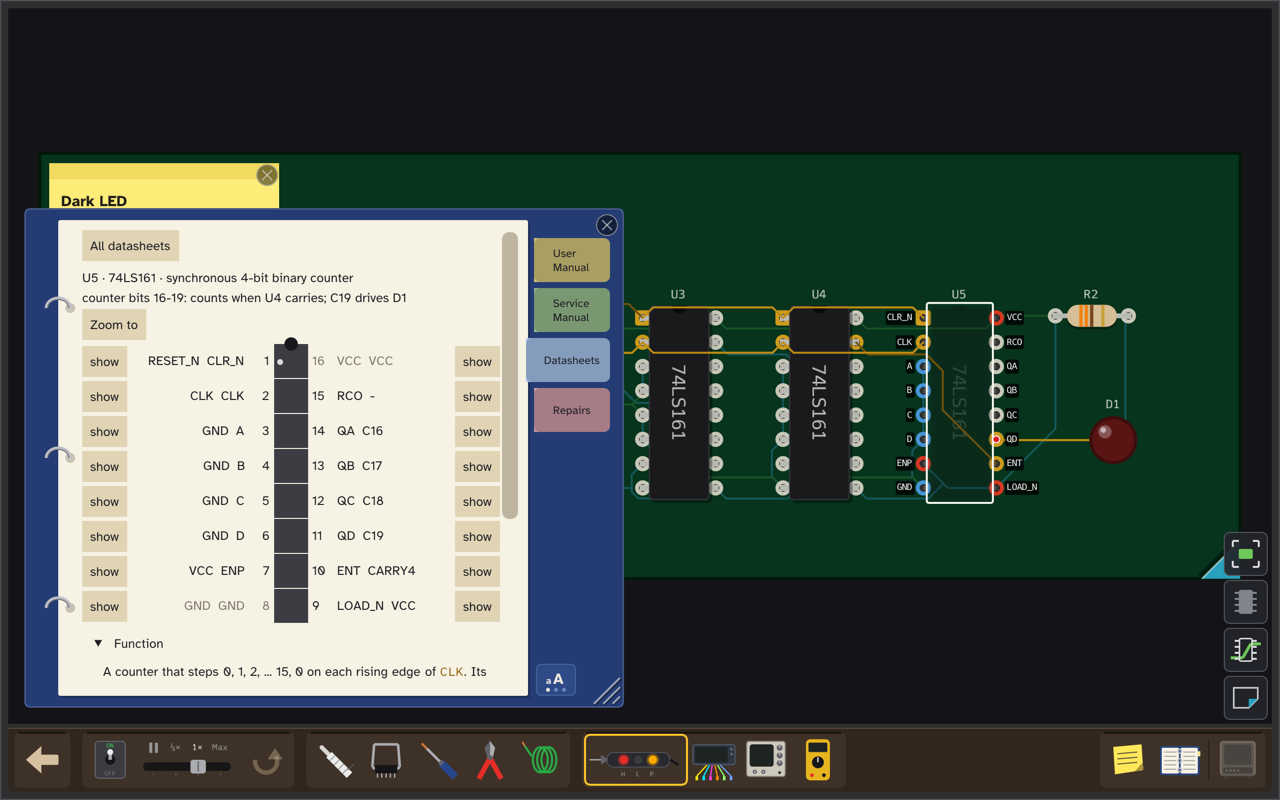
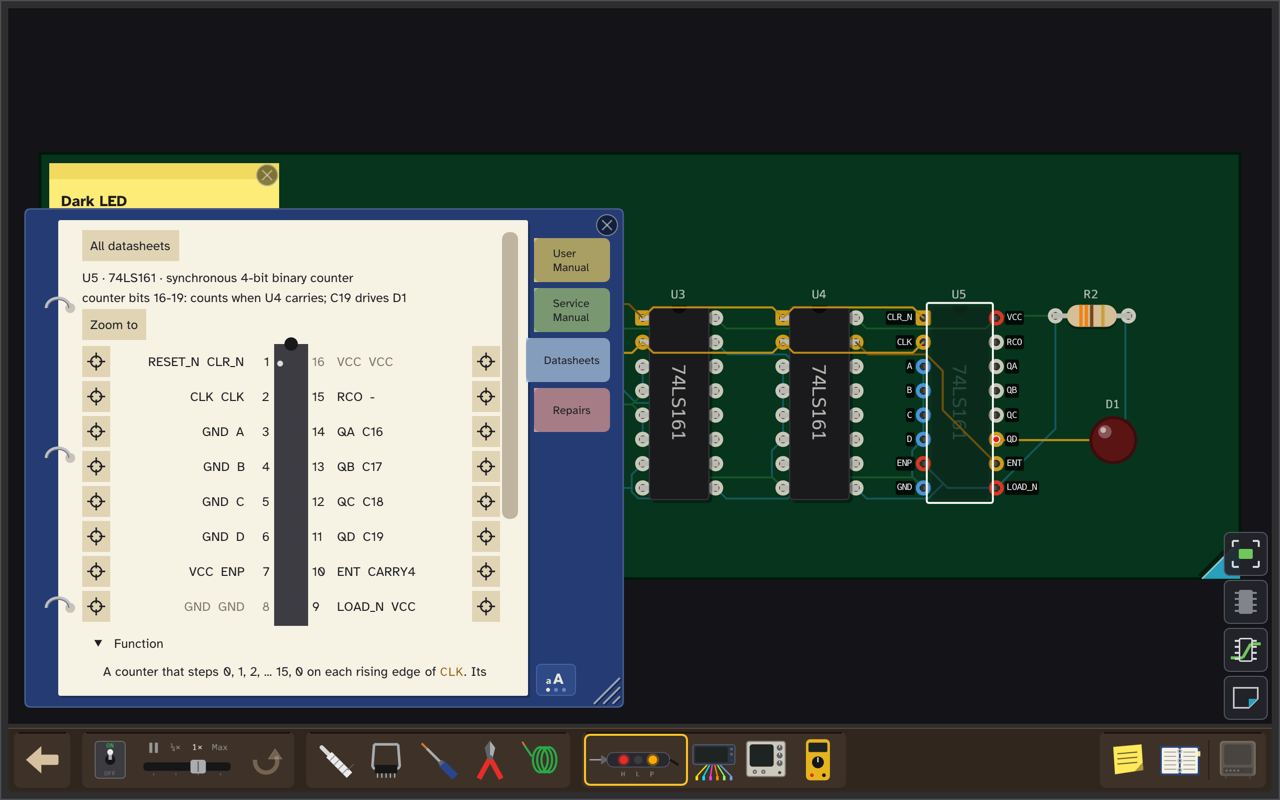
ui: pinouts and Contents at the reading size, a crosshair for "show"
The pinouts and a memory chip's Contents page no longer stay at 16 px:
they follow the aA key like the rest of the page.

- ControlHeight() (controls.hpp): kControl, or the style's frame in a
  larger font. A pin's row, its "show" key, the chip body's segment and
  Choice's buttons take it, so their text fits at 20 and 24 px.
- A pin's "show" key is a crosshair kControl wide (tooltip "Show on the
  Board") instead of the word: about 20 px more for the names each side.
- A row too long for its cell is clipped a gap short of its key (it was
  drawn over it); its tooltip shows it whole, and the player can widen
  the binder. At the binder's first size, Parts with a cut row: 28 of
  540 at 16 px (40 before), 114 at 20, 247 at 24.
- The Contents page's hex fields and Rows value sized from their text;
  the hex dump already goes 16, 8 or 4 bytes a row with the width.
- PushFixedPageFont is left to the binder's own labels (tabs, aA key).

Full release suite passed (1720); web build built; screenshots of every
pinout layout and Contents view at 16, 20 and 24 px viewed.

diff --git a/src/ui/chip_panel.cpp b/src/ui/chip_panel.cpp
@@ -12,7 +12,6 @@
 
 #include "parts/catalogue.hpp"
 #include "ui/controls.hpp"
-#include "ui/page_fonts.hpp"
 #include "ui/touch.hpp"
 #include "view/digit_shape.hpp"
 
@@ -76,20 +75,38 @@ void PinHits(bool clicked, const PinRow& row, std::size_t component, const Markd
     }
 }
 
+// A crosshair centred on `centre`, `radius` its ring's.
+void DrawCrosshair(ImDrawList& list, ImVec2 centre, float radius, ImU32 colour) {
+    list.AddCircle(centre, radius, colour, 0, 1.5f);
+    const float in = radius * 0.45f, out = radius * 1.45f;
+    for (const ImVec2 d : {ImVec2{1, 0}, ImVec2{-1, 0}, ImVec2{0, 1}, ImVec2{0, -1}}) {
+        list.AddLine({centre.x + d.x * in, centre.y + d.y * in},
+                     {centre.x + d.x * out, centre.y + d.y * out}, colour, 1.5f);
+    }
+}
+
 // A pin's "show" button (P8f): frames the pin on the Board whatever tool is in hand, as a Ctrl-
-// or Cmd-click on its row does. `width` 0: the label's.
-constexpr const char* kShow = "show";
-float ShowWidth() { return ImGui::CalcTextSize(kShow).x + 2 * ImGui::GetStyle().FramePadding.x; }
+// or Cmd-click on its row does. A crosshair (2026-11-27: the word "show" took the names' room at
+// the larger reading sizes), kControl wide, as high as a pin's row; `width` 0: kControl.
+float ShowWidth() { return kControl; }
 void ShowButton(const PinRow& row, std::size_t component, TargetHits& hits, float width = 0) {
+    const ImVec2 size{width > 0 ? width : ShowWidth(), ControlHeight()};
     if (!row.pad) {
-        ImGui::Dummy({width > 0 ? width : ShowWidth(), kControl});
+        ImGui::Dummy(size);
         return;
     }
     ImGui::PushID(row.number.c_str());
-    if (ImGui::Button(kShow, {width, 0})) {
+    if (ImGui::Button("##show", size)) {
         hits.clicked = BoardTarget{{component}, row.pad, std::nullopt};
         hits.frame = true;
     }
+    if (ImGui::IsItemHovered()) {
+        PageTooltip("Show on the Board");
+    }
+    const ImVec2 min = ImGui::GetItemRectMin(), max = ImGui::GetItemRectMax();
+    DrawCrosshair(*ImGui::GetWindowDrawList(), {(min.x + max.x) / 2, (min.y + max.y) / 2},
+                  std::min(max.x - min.x, max.y - min.y) * 0.22f,
+                  ImGui::GetColorU32(ImGuiCol_Text));
     ImGui::PopID();
 }
 
@@ -105,7 +122,7 @@ void PinCell(const PinRow& row, PinSide side, std::size_t component, const Markd
     // A row as high as a control (P8f): the large way to a pin. Level with the "show" button
     // before it on a table's row, whose frame would lower this row's text by its padding.
     ImGui::GetCurrentWindow()->DC.CurrLineTextBaseOffset = 0;
-    const bool clicked = ImGui::Selectable("##pin", false, 0, {width, kControl});
+    const bool clicked = ImGui::Selectable("##pin", false, 0, {width, ControlHeight()});
     ImGui::PopID();
     const ImVec2 min = ImGui::GetItemRectMin();
     const ImVec2 max = ImGui::GetItemRectMax();
@@ -118,6 +135,11 @@ void PinCell(const PinRow& row, PinSide side, std::size_t component, const Markd
     const ImU32 colour =
         ImGui::GetColorU32(row.power ? kPowerText : ImGui::GetStyleColorVec4(ImGuiCol_Text));
     ImDrawList& list = *ImGui::GetWindowDrawList();
+    // A row too long for its cell is cut a gap short of the "show" key beside it (its tooltip
+    // shows it whole); the number, next to the body, never.
+    const float margin = ImGui::GetStyle().ItemSpacing.x;
+    list.PushClipRect({side == PinSide::Left ? min.x + margin : min.x, min.y},
+                      {side == PinSide::Left ? max.x : max.x - margin, max.y}, true);
     switch (side) {
     case PinSide::Left:  // "net  name  NN|": both to the right
         list.AddText({max.x - number, y}, colour, row.number.c_str());
@@ -133,6 +155,7 @@ void PinCell(const PinRow& row, PinSide side, std::size_t component, const Markd
         list.AddText({min.x + slot + gap, y}, colour, words.c_str());
         break;
     }
+    list.PopClipRect();
     PinHits(clicked, row, component, datasheet, hits);
 }
 
@@ -274,8 +297,6 @@ TargetHits ChipPanel::draw(const BoardScene& scene, std::size_t component, const
         hits.clicked = BoardTarget{{component}, std::nullopt, std::nullopt};
     }
 
-    // The pinout at the pages' first size: its rows (kControl high) and columns do not grow.
-    PushFixedPageFont(PageFace::Text);
     const auto sheet = manuals.datasheets.find(part);
     const Markdown* datasheet = sheet != manuals.datasheets.end() ? &sheet->second : nullptr;
     const std::size_t pins = scene.board().components[component].pads.size();
@@ -297,14 +318,14 @@ TargetHits ChipPanel::draw(const BoardScene& scene, std::size_t component, const
             PinCell(left, PinSide::Left, component, datasheet, hits);
             ImGui::TableNextColumn();
             const ImVec2 at = ImGui::GetCursorScreenPos();
-            const float height = kControl + ImGui::GetStyle().ItemSpacing.y;
+            const float height = ControlHeight() + ImGui::GetStyle().ItemSpacing.y;
             ImDrawList& list = *ImGui::GetWindowDrawList();
             list.AddRectFilled({at.x, at.y - 2}, {at.x + kBodyWidth, at.y + height}, kBody);
             if (r == 0) {
                 list.AddCircleFilled({at.x + kBodyWidth / 2, at.y - 2}, kBodyWidth / 5, kNotch);
                 list.AddCircleFilled({at.x + 6, at.y + height / 2}, 3, kPinOne);
             }
-            ImGui::Dummy({kBodyWidth, kControl});
+            ImGui::Dummy({kBodyWidth, ControlHeight()});
             ImGui::TableNextColumn();
             PinCell(right, PinSide::Right, component, datasheet, hits);
             ImGui::TableNextColumn();
@@ -324,7 +345,6 @@ TargetHits ChipPanel::draw(const BoardScene& scene, std::size_t component, const
         }
     }
 
-    ImGui::PopFont();
     if (!datasheet) {
         ImGui::TextDisabled("no datasheet");
         return hits;

diff --git a/src/ui/contents_page.cpp b/src/ui/contents_page.cpp
@@ -59,18 +59,21 @@ private:
     bool first_ = true;
 };
 
-constexpr float kHexField = 56;
+// A hex field's width: four digits and the frame's padding, in the page's font.
+float HexFieldWidth() {
+    return ImGui::CalcTextSize("FFFF").x + 2 * ImGui::GetStyle().FramePadding.x + 4;
+}
 
 // "Label [field]": a number's field in hex, `digits` wide, set from the number pad (P8f); true
 // when a value was confirmed.
 template <typename T>
 bool HexField(Row& row, const char* label, const char* id, T& value, int digits) {
-    row.next(ImGui::CalcTextSize(label).x + ImGui::GetStyle().ItemInnerSpacing.x + kHexField);
+    row.next(ImGui::CalcTextSize(label).x + ImGui::GetStyle().ItemInnerSpacing.x + HexFieldWidth());
     ImGui::AlignTextToFramePadding();
     ImGui::TextUnformatted(label);
     ImGui::SameLine(0, ImGui::GetStyle().ItemInnerSpacing.x);
     std::string text = std::format("{:0{}X}", static_cast<std::uint64_t>(value), digits);
-    if (!NumberField(id, text, PadKind::Hex, kHexField, false, 4)) {
+    if (!NumberField(id, text, PadKind::Hex, HexFieldWidth(), false, 4)) {
         return false;
     }
     std::uint64_t parsed = 0;
@@ -100,9 +103,9 @@ bool Choices(Row& row, const char* label, const char* id, int& value,
 
 // "Label - n +": a stepper from `low` to `high` (P8f: no slider); true when it changed.
 bool Steps(Row& row, const char* label, const char* id, unsigned& value, int low, int high) {
-    constexpr float kValueWidth = 36;
+    const float valueWidth = ImGui::CalcTextSize("00").x + 2 * ImGui::GetStyle().FramePadding.x;
     row.next(ImGui::CalcTextSize(label).x + ImGui::GetStyle().ItemInnerSpacing.x + 2 * kBig +
-             kValueWidth + 2);
+             valueWidth + 2);
     BigText(label);
     ImGui::SameLine(0, ImGui::GetStyle().ItemInnerSpacing.x);
     std::vector<std::string> values;
@@ -110,7 +113,7 @@ bool Steps(Row& row, const char* label, const char* id, unsigned& value, int low
         values.push_back(std::to_string(v));
     }
     auto index = static_cast<std::size_t>(std::clamp(static_cast<int>(value), low, high) - low);
-    const bool changed = Stepper(id, values, index, kValueWidth);
+    const bool changed = Stepper(id, values, index, valueWidth);
     value = static_cast<unsigned>(low + static_cast<int>(index));
     return changed;
 }
@@ -145,7 +148,7 @@ TargetHits ContentsPage::draw(BoardView& board, std::size_t component, const Mac
     }
 
     // The head: the reference (a link), the Part, its size, where the CPU sees it.
-    PushFixedPageFont(PageFace::Text, kTitleScale);
+    PushPageFont(PageFace::Text, kTitleScale);
     TextFlow flow;
     const TextFlow::Result link = flow.text(reference, kPageLink, true);
     ImGui::PopFont();
@@ -182,7 +185,7 @@ TargetHits ContentsPage::draw(BoardView& board, std::size_t component, const Mac
     settingsLine(s, words);
     ImGui::Spacing();
 
-    PushFixedPageFont(PageFace::Mono);  // addresses, bytes and code in columns
+    PushPageFont(PageFace::Mono);  // addresses, bytes and code in columns
     ImGui::PushStyleVar(ImGuiStyleVar_WindowPadding, {0, 0});
     if (ImGui::BeginChild("view", {0, 0}, ImGuiChildFlags_None,
                           ImGuiWindowFlags_NoBackground | ImGuiWindowFlags_NoMove)) {

diff --git a/src/ui/controls.hpp b/src/ui/controls.hpp
@@ -19,6 +19,10 @@ inline constexpr float kBig = 44;      // a new control's, a popup button's
 // Each ImGui context, once: frames kControl high, wider scrollbars.
 void ApplyStyle();
 
+// A control's height in the current font: kControl, or the style's frame when the font is larger
+// than the UI's (a page's text at 20 or 24 px), so its text still fits.
+float ControlHeight();
+
 // A text on a line of kBig controls (beside a Stepper), centred on its height; `colour` 0: the
 // text's own.
 void BigText(const char* text, ImU32 colour = 0);
@@ -29,9 +33,10 @@ void BigText(const char* text, ImU32 colour = 0);
 bool Stepper(const char* id, std::span<const std::string> values, std::size_t& index,
              float valueWidth);
 
-// Buttons side by side, the `index`-th lit: for 2 to 5 choices. True when it changed.
+// Buttons side by side, the `index`-th lit: for 2 to 5 choices, `height` high (0: ControlHeight).
+// True when it changed.
 bool Choice(const char* id, std::span<const char* const> labels, std::size_t& index,
-            float height = kControl);
+            float height = 0);
 
 // The choices of a drawn key (P8i: a plate's Trigger) as a strip of kBig buttons, at least
 // `width` wide, the `index`-th lit, shown once ImGui::OpenPopup(id) was called in the same ID

diff --git a/src/ui/page_fonts.hpp b/src/ui/page_fonts.hpp
@@ -11,9 +11,9 @@ namespace bw {
 // Atkinson Hyperlegible Mono where characters line up in columns (code, a memory chip's
 // contents). The rest of the UI keeps ImGui's own font.
 //
-// Running text is at the player's reading size (16, 20 or 24 px: the binder's aA key,
-// view/reading_size.hpp); columns and controls whose places do not grow with it (a pinout, a
-// memory chip's contents, the tabs) stay at kPageFontSize.
+// A page's text is at the player's reading size (16, 20 or 24 px: the binder's aA key,
+// view/reading_size.hpp), its controls as high as it needs (ControlHeight); the binder's own
+// drawn labels (the tabs, the aA key's letters) stay at kPageFontSize.
 inline constexpr float kPageFontSize = 16;
 enum class PageFace : std::uint8_t { Text, Bold, Mono };
 

diff --git a/src/ui/controls.cpp b/src/ui/controls.cpp
@@ -88,6 +88,8 @@ void ApplyStyle() {
     style.GrabMinSize = 20;
 }
 
+float ControlHeight() { return std::max(kControl, ImGui::GetFrameHeight()); }
+
 void BigText(const char* text, ImU32 colour) {
     const ImVec2 at = ImGui::GetCursorScreenPos();
     const ImVec2 size = ImGui::CalcTextSize(text);
@@ -155,6 +157,9 @@ bool Stepper(const char* id, std::span<const std::string> values, std::size_t& i
 
 bool Choice(const char* id, std::span<const char* const> labels, std::size_t& index, float height) {
     bool changed = false;
+    if (height == 0) {
+        height = ControlHeight();
+    }
     ImGui::PushID(id);
     ImGui::BeginGroup();  // one item for what follows it on the line (CentreOnBig, SameLine)
     const NoFingerPadding edgeToEdge;

diff --git a/src/ui/manual_window.cpp b/src/ui/manual_window.cpp
@@ -236,9 +236,7 @@ void ManualWindows::draw(bool& open, const Manuals& manuals, BoardView& board,
         case Divider::Contents:
             if (const auto chip = binder_.contents(); chip && scene && machine) {
                 ImGui::PushID("contents");
-                PushFixedPageFont(PageFace::Text);  // its fields and columns do not grow
                 board.route(contents_.draw(board, *chip, *machine));
-                ImGui::PopFont();
                 ImGui::PopID();
             }
             break;

diff --git a/AGENTS.md b/AGENTS.md
@@ -55,11 +55,11 @@ Before writing a small helper, look here: most of the project's duplicated code 
 - An instrument whose tip touches one Net: derive its Consumer from `SingleNetConsumer<State>` ([src/runner/single_net_consumer.hpp](src/runner/single_net_consumer.hpp)). One with Channels: `Rewatch` and `ChannelNets<Mask>` ([src/runner/channel_nets.hpp](src/runner/channel_nets.hpp)).
 - Several Nets' recorded Samples in time order: `Recorder::inOrder` ([src/sim/recorder.hpp](src/sim/recorder.hpp)). A TV's Nets on a circuit, and its lamps': `FindTvNets`, `FindLedNets` ([src/session/session.hpp](src/session/session.hpp)). A TV or lamps on a Simulator stepped by hand (`bw run`, a test): `TvInput` ([src/devices/tv_input.hpp](src/devices/tv_input.hpp)), `LedInput` ([src/runner/led_input.hpp](src/runner/led_input.hpp)).
 - Gestures in a window ([src/ui/gestures.hpp](src/ui/gestures.hpp)): `TimeCanvas::read` (a canvas over time: zoom, pan, drag, marker and its flag, a finger's hold, a vertical drag where rows scroll), `ReadKnob` (a round knob).
-- The controls every window shares ([src/ui/controls.hpp](src/ui/controls.hpp), P8f), one size for the mouse and the finger (`kControl` 28 px, `kBig` 44): `Stepper`, `Choice`, `ChoicesPopup` (a drawn key's choices), `NumberField` and its pad in place of a `Combo`, a slider or an `InputText`, which a finger cannot work; `BigText`; `DragScroll` (a scrolling child dragged); `CornerGrip` and `PinchResize` (last in an object's window).
+- The controls every window shares ([src/ui/controls.hpp](src/ui/controls.hpp), P8f), one size for the mouse and the finger (`kControl` 28 px, `kBig` 44; `ControlHeight()` in a larger font, a page's at 20 or 24 px): `Stepper`, `Choice`, `ChoicesPopup` (a drawn key's choices), `NumberField` and its pad in place of a `Combo`, a slider or an `InputText`, which a finger cannot work; `BigText`; `DragScroll` (a scrolling child dragged); `CornerGrip` and `PinchResize` (last in an object's window).
 - A drawn case (the scope, P8h; the analyzer, P8i): its strip's sizes and boxes ([src/view/case_strip.hpp](src/view/case_strip.hpp): `Box`, `BandAt`, `LayOutStepper`, `LayOutBadge`, `SizeKeyBox`); its drawing ([src/ui/case_keys.hpp](src/ui/case_keys.hpp): frame, groups, badge, bezel, keys, LEDs, lamps, rockers, `TimeGrid`); the cursor's tag `DrawCursorTag` ([src/ui/instrument_marks.hpp](src/ui/instrument_marks.hpp)).
 - A finger ([src/ui/touch.hpp](src/ui/touch.hpp)): `Touch()` (this frame's `two`, `pinch`, `panX`/`panY`, `hold`, `cancelled`), `FingerPointer()`, `PressCancelled()`, `TouchTypingZone()`, `NoFingerPadding`, `kFingerPadding`. Under it, pure and tested: `Fingers`, `ScriptEvents` ([src/view/fingers.hpp](src/view/fingers.hpp)). A finger changes the input only, never a control, a size or a text.
 - An object on the bench ([src/ui/bench.hpp](src/ui/bench.hpp)): `PlaceNext`, `KeepAspect`, `CaseClose`, `TogglePop`, `PopOnDoubleClick`, `FillBenchWith` / `Unfill`; its places and sizes, pure: `FitBench`, `FillBench`, `ReturnPlace`, `NextPreset` ([src/view/bench_places.hpp](src/view/bench_places.hpp)).
-- Text on a page (the binder, the Brief): `PushPageFont(PageFace::Text|Bold|Mono, scale)` ([src/ui/page_fonts.hpp](src/ui/page_fonts.hpp)), Atkinson Hyperlegible at the player's reading size (16, 20 or 24 px, the binder's aA key); `PushFixedPageFont` keeps `kPageFontSize` 16 px for what lays out in fixed places (a pinout, a memory chip's contents, the tabs, a `kControl`-high row). Never `ImGui::PushFont(nullptr, FontSizeBase × …)` there, which is ImGui's font. Its digits are proportional: line numbers up in a slot (`CalcTextSize("00")`), not with spaces.
+- Text on a page (the binder, the Brief): `PushPageFont(PageFace::Text|Bold|Mono, scale)` ([src/ui/page_fonts.hpp](src/ui/page_fonts.hpp)), Atkinson Hyperlegible at the player's reading size (16, 20 or 24 px, the binder's aA key); its controls `ControlHeight()` high so the text fits; `PushFixedPageFont` keeps `kPageFontSize` 16 px for the binder's own drawn labels (the tabs, the aA key). Never `ImGui::PushFont(nullptr, FontSizeBase × …)` there, which is ImGui's font. Its digits are proportional: line numbers up in a slot (`CalcTextSize("00")`), not with spaces.
 - A visitor from lambdas for `std::visit`: `Overloaded` ([src/machine/repair.hpp](src/machine/repair.hpp)).
 
 ## Docs
